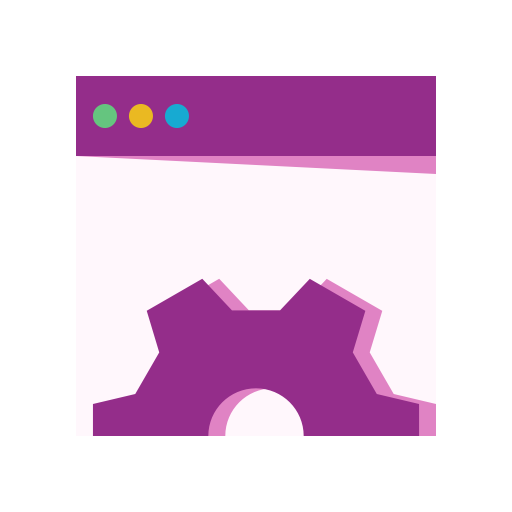
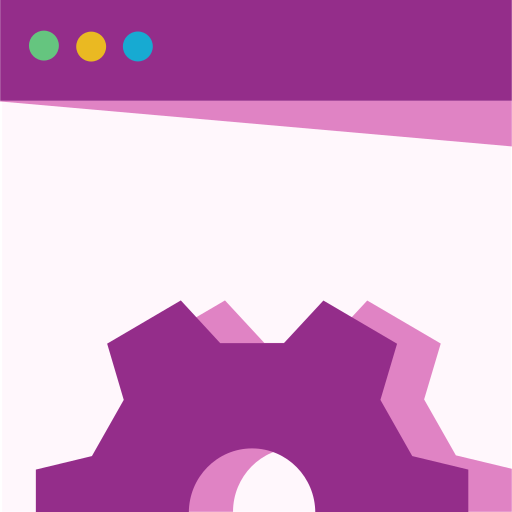
New commands + context menu + changelog

diff --git a/src/Actions/PortalActions.ts b/src/Actions/PortalActions.ts
@@ -1,21 +1,26 @@
 import * as vscode from 'vscode';
-import {Terminal} from '../Helpers/Terminal';
-import {Commands} from '../Helpers/Commands';
+import { Terminal } from '../Helpers/Terminal';
+import { Commands } from '../Helpers/Commands';
+import { VSCodeHelper } from '../Helpers/VSCodeHelper';
 
+interface IPortalConfig {
+    portalId: string,
+    portalPath: string
+}
 export class PortalActions {
     private _context: vscode.ExtensionContext;
 
-    constructor(context: vscode.ExtensionContext){
+    constructor(context: vscode.ExtensionContext) {
         this._context = context;
     }
 
-    public async ListPortals(){
+    public async ListPortals() {
         vscode.window.showInformationMessage('Portal Helper: List of Available Portals');
 
         Terminal.RunCommand(Commands.PortalList());
     }
 
-    public async DownloadPortal(){
+    public async DownloadPortal() {
         vscode.window.showInformationMessage('Portal Helper: Download specific portal');
 
         let localPortalPathOptions: vscode.InputBoxOptions = {
@@ -54,7 +59,52 @@ export class PortalActions {
         Terminal.RunCommand(Commands.DownloadPortal(localPortalPath, websiteId, overwritePortal));
     }
 
-    public async UploadPortal(currentPortal?:boolean){
+    public async DownloadLatestPortal() {
+        vscode.window.showInformationMessage('Portal Helper: Download Latest portal');
+
+        const savedPortalConfig = this._context.workspaceState.get('CurrentPortalConfig');
+
+        let portalConfig:IPortalConfig;
+
+        if(savedPortalConfig) {
+            portalConfig = savedPortalConfig as IPortalConfig;
+        } else {
+
+            let localPortalPathOptions: vscode.InputBoxOptions = {
+                prompt: 'Enter local path where portal will be downloaded',
+                placeHolder: 'Local path C:\\Code\\Portals or c for current parent folder'
+            };
+    
+            let localPortalPath = await vscode.window.showInputBox(localPortalPathOptions);
+    
+            if (!localPortalPath) {
+                vscode.window.showErrorMessage('Portal Helper: You need to provide local path for Portal to be downloaded into');
+                return;
+            }
+    
+            let websiteIdOptions: vscode.InputBoxOptions = {
+                prompt: 'Provide Id of the portal to download',
+                placeHolder: 'Id like 00000000-0000-0000-0000-000000000000'
+            };
+    
+            let websiteId = await vscode.window.showInputBox(websiteIdOptions);
+    
+            if (!websiteId) {
+                vscode.window.showErrorMessage('Portal Helper: You need to provide id of the website');
+                return;
+            }
+    
+            portalConfig = {
+                portalId: websiteId,
+                portalPath: localPortalPath
+            };
+
+            this._context.workspaceState.update('CurrentPortalConfig', portalConfig);
+        }
+        Terminal.RunCommand(Commands.DownloadPortal(portalConfig.portalPath, portalConfig.portalId, 'Yes'));
+    }
+
+    public async UploadPortal(currentPortal?: boolean) {
         vscode.window.showInformationMessage('Portal Helper: Upload portal');
 
         let localPortalPathOptions: vscode.InputBoxOptions = {
@@ -69,7 +119,7 @@ export class PortalActions {
             return;
         }
 
-        if(localPortalPath === 'c' && vscode.workspace.workspaceFolders){
+        if (localPortalPath === 'c' && vscode.workspace.workspaceFolders) {
             localPortalPath = vscode.workspace.workspaceFolders[0].uri.fsPath;
         } else {
             vscode.window.showErrorMessage('Portal Helper: You need to provide local path for Portal to be uploaded from');
@@ -77,5 +127,30 @@ export class PortalActions {
         }
 
         Terminal.RunCommand(Commands.UploadPortal(localPortalPath));
+    }
+
+    public async CreateCustomJS(selectedUri: vscode.Uri) {
+        vscode.window.showInformationMessage('Portal Helper: Create Custom JS');
+
+        this.CreateCustomPage(selectedUri, 'js');
+    }
+
+    public async CreateCustomCSS(selectedUri: vscode.Uri) {
+        vscode.window.showInformationMessage('Portal Helper: Create Custom CSS');
+
+        this.CreateCustomPage(selectedUri, 'css');
+    }
+
+    private async CreateCustomPage(selectedUri: vscode.Uri, pageType: string) {
+        const { folderPath, fileName, fileNameWithExt } = VSCodeHelper.GetFileAndFolderFromURI(selectedUri);
+
+        if (fileNameWithExt.indexOf('.webpage.yml') === -1 && fileNameWithExt.indexOf('.basicform.yml') === -1
+            && fileNameWithExt.indexOf('.advancedformstep.yml') === -1) { return; }
+
+        const newFileName = pageType === 'css' ? `${fileName}.custom_css.css` : `${fileName}.custom_javascript.js`;
+
+        const newFilePath = vscode.Uri.file(folderPath + '/' + newFileName);
+
+        VSCodeHelper.CreateFile(newFilePath);
     }
 }

diff --git a/src/extension.ts b/src/extension.ts
@@ -58,6 +58,25 @@ export function activate(context: vscode.ExtensionContext) {
 			authActions.ListProfiles();
 		})
 	);
+
+	context.subscriptions.push(
+		vscode.commands.registerCommand('portal-helper-vscode.createCustomJS', (selectedUri: vscode.Uri) => {
+			portalActions.CreateCustomJS(selectedUri);
+		})
+	);
+
+	
+	context.subscriptions.push(
+		vscode.commands.registerCommand('portal-helper-vscode.createCustomCSS', (selectedUri: vscode.Uri) => {
+			portalActions.CreateCustomCSS(selectedUri);
+		})
+	);
+
+	context.subscriptions.push(
+		vscode.commands.registerCommand('portal-helper-vscode.downloadLatestPortal', () => {
+			portalActions.DownloadLatestPortal();
+		})
+	);
 }
 
 // this method is called when your extension is deactivated

diff --git a/src/Helpers/VSCodeHelper.ts b/src/Helpers/VSCodeHelper.ts
@@ -1,0 +1,25 @@
+import * as vscode from 'vscode';
+
+export class VSCodeHelper {
+    public static CreateFile(filePath:vscode.Uri){
+        const wsedit = new vscode.WorkspaceEdit();
+        wsedit.createFile(filePath);
+        vscode.workspace.applyEdit(wsedit);
+    }
+
+    public static GetFileAndFolderFromURI(uriPath:vscode.Uri){
+        let filePathArr = uriPath.fsPath.split('\\');
+
+        let fileNameWithExt = filePathArr[filePathArr.length-1];
+
+        let fileName = fileNameWithExt.slice(0,-4);
+
+        let folderPath = uriPath.fsPath.replace(`\\${fileNameWithExt}`,'');
+
+        return {
+            fileNameWithExt,
+            fileName,
+            folderPath
+        };
+    }
+}

diff --git a/src/Helpers/Commands.ts b/src/Helpers/Commands.ts
@@ -4,12 +4,12 @@ export class Commands {
     }
 
     public static DownloadPortal(localPath:string, websiteId: string, overwritePortal: string | undefined){
-        let overwriteText = overwritePortal === "Yes" ? `-o true`: '';
-        return `pac paportal download -p ${localPath} -id ${websiteId} ${overwriteText}`;
+        let overwriteText = overwritePortal === 'Yes' ? `-o true`: '';
+        return `pac paportal download -p "${localPath}" -id ${websiteId} ${overwriteText}`;
     }
 
     public static UploadPortal(localPath:string){
-        return `pac paportal upload -p ${localPath}`;
+        return `pac paportal upload -p "${localPath}"`;
     }
 
     public static AuthList(){

diff --git a/README.md b/README.md
@@ -4,8 +4,7 @@ Set of commands to simplify work with Power Apps CLI for Portals.
 
 ## Usage
 
-You can view list of available commands via `Ctrl+Shift+P` and type **Portal Helper**.
-See shortcuts for available commands below.
+You can view list of available commands via `Ctrl+Shift+P` and type **Portal Helper**. There are context menu commands as well. See the full list of available commands and shortcuts below.
 
 ## Requirements
 
@@ -20,12 +19,18 @@ You need to have the following prerequisites on your machine:
 | ------- | ----------------- |
 | List Portals | Shows the list of available portals for current Dataverse organization |
 | Download Portal | Download portal by id from current Dataverse org to specified local path |
+| Download Latest | Download portal by id from current Dataverse org to specified local path. Saves entered id and path on the workspace level for later reuse |
 | Upload Portal | Upload portal from local folder to current Dataverse org |
 | Upload Current Portal | Upload portal from open workspace folder to current Dataverse org |
 | Create New Auth Profile | Creates a new auth profile for specified Dataverse org |
 | List Auth Profiles | Shows list of profiles that are authenticated with Dataverse orgs for current machine. |
 | Delete Auth Profile | Deletes a specific profile from the current machine |
 | Switch Auth Profile | Changes the default profile connected to Dataverse org |
+
+| Context Menu Command | Description |
+| ------- | ----------------- |
+| Create Custom JS | Creates Custom Javascript file (code that will be present in Custom Javascript section of Web Page, Basic Form or Advance Form Step) |
+| Create Custom CSS | Creates Custom CSS file (code that will be present in Custom CSS section of Web Page, Basic Form or Advance Form Step) |
 
 ### Keyboard Shortcuts
 
@@ -34,7 +39,8 @@ You need to have the following prerequisites on your machine:
 | Upload Portal | `Ctrl + U, Ctrl + P` |
 | Upload Current Portal | `Ctrl + U, Ctrl + C` |
 | List Portal | `Ctrl + L, Ctrl + P` |
-| Download Portal| `Ctrl + D, Ctrl + P` |
+| Download Portal | `Ctrl + D, Ctrl + P` |
+| Download Latest | `Ctrl + D, Ctrl + L` |
 
 ## Features
 
@@ -54,6 +60,14 @@ You need to have the following prerequisites on your machine:
 
     ![Download-Portal](https://github.com/OOlashyn/portal-helper-vscode/blob/master/assets/download-portal.gif?raw=true)
 
+5. Download Latest
+
+    ![Download-Latest](https://github.com/OOlashyn/portal-helper-vscode/blob/master/assets/download-latest.gif?raw=true)
+
+6. Create Custom JS and Create Custom CSS
+
+    ![Download-Latest](https://github.com/OOlashyn/portal-helper-vscode/blob/master/assets/custom-css.gif?raw=true)
+
 ## Contributing
 
 Found a bug? or have a feature request? - Create a pull request or an issue on [GitHub](https://github.com/OOlashyn/portal-helper-vscode)
@@ -64,6 +78,20 @@ This software is released under [MIT License](http://www.opensource.org/licenses
 Calling out known issues can help limit users opening duplicate issues against your extension.
 
 ## Release Notes
+
+### 1.1.0
+
+#### Added
+
+- New command - "Download Latest" - allows to download latest changes to the portal + save portal id and folder path to reuse later
+- New keybinding for Download Latest command - CTRL+D, CTRL+L
+- New Explorer context menu command - "Create Custom JS" - allows to create custom js file for webpages, basic forms and advance form steps
+- New Explorer context menu command - "Create Custom CSS" - allows to create custom js file for webpages, basic forms and advance form steps
+
+#### Changed
+
+- Commands now support local folder path that contain white spaces
+- Uploaded bigger icon
 
 ### 1.0.2
 

diff --git a/CHANGELOG.md b/CHANGELOG.md
@@ -1,9 +1,44 @@
 # Change Log
 
-All notable changes to the "pas-portal-vscode" extension will be documented in this file.
+All notable changes to the Power Apps Portal Helper extension will be documented in this file.
 
 Check [Keep a Changelog](http://keepachangelog.com/) for recommendations on how to structure this file.
 
 ## [Unreleased]
+
+## [1.1.0] - 2021-05-05
+
+### Added
+
+- New command - "Download Latest" - allows to download latest changes to the portal + save portal id and folder path to reuse later
+- New keybinding for Download Latest command - CTRL+D, CTRL+L
+- New Explorer context menu command - "Create Custom JS" - allows to create custom js file for webpages, basic forms and advance form steps
+- New Explorer context menu command - "Create Custom CSS" - allows to create custom js file for webpages, basic forms and advance form steps
+
+### Changed
+
+- Commands now support local folder path that contain white spaces
+- Uploaded bigger icon
+
+## [1.0.2] - 2021-05-02
+
+### Changed
+
+- Fix README to include relevant description
+
+## [1.0.1] - 2021-05-01
+
+### Added
+
+- Keybindings for Portal commands
+- New commad - Upload Current Portal
+
+### Changed
+
+- Updated icon
+
+## [1.0.0] - 2021-05-01
+
+### Added
 
 - Initial release
